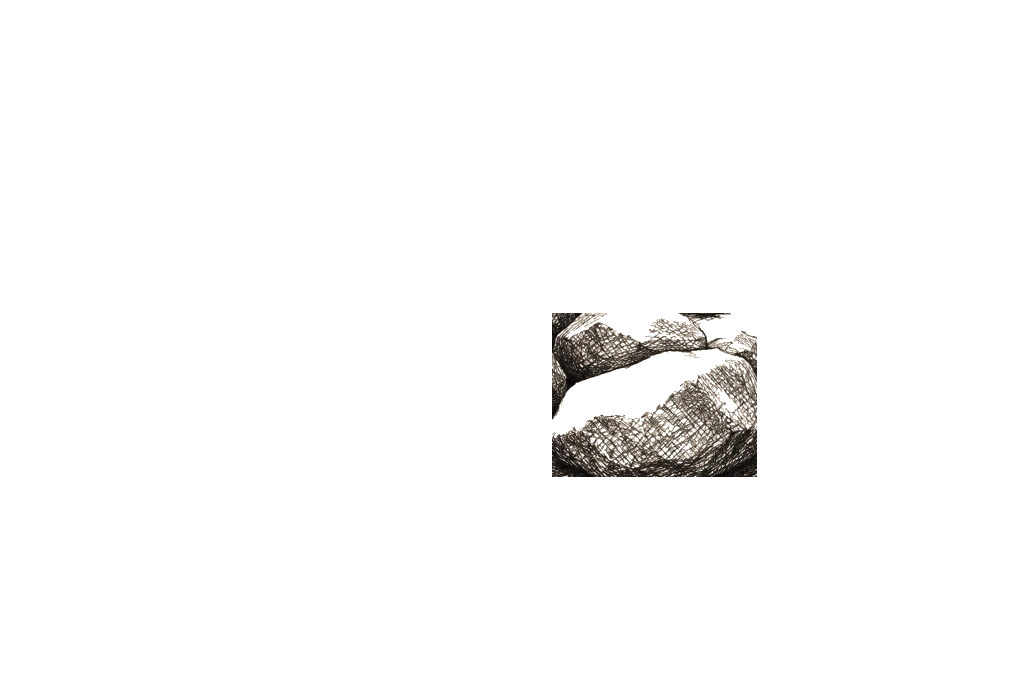
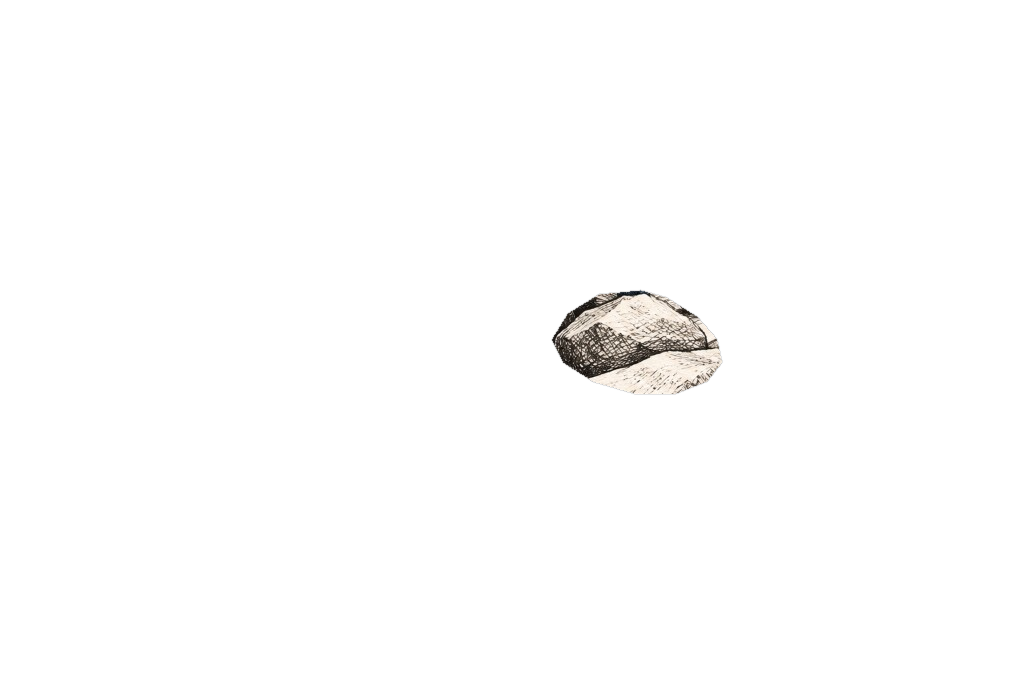
Tighten rock cutouts to stone silhouettes and simplify Nest CTA.
Trace each backpack rock as an art cutout like the tree hotspots, and leave the Nest tree alone on the right with the dashboard button under it.

Changed region(s): [[0.5312, 0.4003, 0.75, 0.7082]]

diff --git a/index.html b/index.html
@@ -61,7 +61,7 @@
   <link rel="preconnect" href="https://fonts.gstatic.com" crossorigin />
   <link href="https://fonts.googleapis.com/css2?family=Playfair+Display:ital,wght@0,400;0,700;1,400;1,700&family=DM+Sans:wght@300;400;500&family=DM+Mono:wght@300;400&family=Space+Mono:wght@400;700&display=swap" rel="stylesheet" />
   <link rel="stylesheet" href="/css/lilbird-tokens.css?v=20260917k" />
-  <link rel="stylesheet" href="/css/lilbird-home.css?v=20261103d" />
+  <link rel="stylesheet" href="/css/lilbird-home.css?v=20261103e" />
   <link rel="stylesheet" href="/css/lilbird-chat.css?v=20260917k" />
   <!-- Google Tag Manager -->
   <script src="/lilbird-gtm-id.js"></script>
@@ -297,16 +297,16 @@
     <div class="rocks-stage reveal reveal-delay-2" id="rocks-stage">
       <img class="rocks-art" src="/images/home/backpack-rocks.jpg" alt="A sketched blue backpack on the floor with rocks and Big Bird spilling out" width="1024" height="682" loading="lazy" decoding="async" />
       <div class="hotspot-glows" aria-hidden="true">
-        <img class="hotspot-glow" data-glow="rock-1" src="/images/home/backpack-rocks.jpg" data-hit="/images/home/hotspots/rock-1-hit.png" style="--hotspot-mask:url('/images/home/hotspots/rock-1-full.png')" alt="" width="1024" height="682" decoding="async" />
-        <img class="hotspot-glow" data-glow="rock-2" src="/images/home/backpack-rocks.jpg" data-hit="/images/home/hotspots/rock-2-hit.png" style="--hotspot-mask:url('/images/home/hotspots/rock-2-full.png')" alt="" width="1024" height="682" decoding="async" />
-        <img class="hotspot-glow" data-glow="rock-3" src="/images/home/backpack-rocks.jpg" data-hit="/images/home/hotspots/rock-3-hit.png" style="--hotspot-mask:url('/images/home/hotspots/rock-3-full.png')" alt="" width="1024" height="682" decoding="async" />
-        <img class="hotspot-glow" data-glow="rock-4" src="/images/home/backpack-rocks.jpg" data-hit="/images/home/hotspots/rock-4-hit.png" style="--hotspot-mask:url('/images/home/hotspots/rock-4-full.png')" alt="" width="1024" height="682" decoding="async" />
+        <img class="hotspot-glow" data-glow="rock-1" src="/images/home/backpack-rocks.jpg" data-hit="/images/home/hotspots/rock-1-hit.png?v=20261103e" style="--hotspot-mask:url('/images/home/hotspots/rock-1-full.png?v=20261103e')" alt="" width="1024" height="682" decoding="async" />
+        <img class="hotspot-glow" data-glow="rock-2" src="/images/home/backpack-rocks.jpg" data-hit="/images/home/hotspots/rock-2-hit.png?v=20261103e" style="--hotspot-mask:url('/images/home/hotspots/rock-2-full.png?v=20261103e')" alt="" width="1024" height="682" decoding="async" />
+        <img class="hotspot-glow" data-glow="rock-3" src="/images/home/backpack-rocks.jpg" data-hit="/images/home/hotspots/rock-3-hit.png?v=20261103e" style="--hotspot-mask:url('/images/home/hotspots/rock-3-full.png?v=20261103e')" alt="" width="1024" height="682" decoding="async" />
+        <img class="hotspot-glow" data-glow="rock-4" src="/images/home/backpack-rocks.jpg" data-hit="/images/home/hotspots/rock-4-hit.png?v=20261103e" style="--hotspot-mask:url('/images/home/hotspots/rock-4-full.png?v=20261103e')" alt="" width="1024" height="682" decoding="async" />
       </div>
       <div class="hotspot-targets">
-        <button type="button" class="art-hotspot" data-glow="rock-1" data-phrase="I know something needs to change. I just can't name what." data-href="/articles/how-do-you-know-youre-ready-for-life-coaching.html" aria-label="Rock: I know something needs to change" style="left:23.9%;top:66%;width:20%;height:21%"></button>
-        <button type="button" class="art-hotspot" data-glow="rock-2" data-phrase="I keep having the same conversations with myself and going nowhere." data-href="/articles/stuck-between-two-paths.html" aria-label="Rock: same conversations going nowhere" style="left:40.9%;top:61.9%;width:18.1%;height:20.8%"></button>
-        <button type="button" class="art-hotspot" data-glow="rock-3" data-phrase="On paper, my life looks fine. From the inside, it doesn't feel like mine." data-href="/articles/on-paper-my-life-looks-fine.html" aria-label="Rock: on paper my life looks fine" style="left:53.9%;top:45.9%;width:20%;height:24%"></button>
-        <button type="button" class="art-hotspot" data-glow="rock-4" data-phrase="I'm not in crisis. I'm just stuck. And I'm tired of it." data-href="/articles/feeling-stuck-in-your-late-twenties.html" aria-label="Rock: not in crisis, just stuck" style="left:72.9%;top:63.9%;width:22%;height:29%"></button>
+        <button type="button" class="art-hotspot" data-glow="rock-1" data-phrase="I know something needs to change. I just can't name what." data-href="/articles/how-do-you-know-youre-ready-for-life-coaching.html" aria-label="Rock: I know something needs to change" style="left:23.9%;top:62.5%;width:20%;height:24.2%"></button>
+        <button type="button" class="art-hotspot" data-glow="rock-2" data-phrase="I keep having the same conversations with myself and going nowhere." data-href="/articles/stuck-between-two-paths.html" aria-label="Rock: same conversations going nowhere" style="left:41.4%;top:64.1%;width:10.1%;height:11.3%"></button>
+        <button type="button" class="art-hotspot" data-glow="rock-3" data-phrase="On paper, my life looks fine. From the inside, it doesn't feel like mine." data-href="/articles/on-paper-my-life-looks-fine.html" aria-label="Rock: on paper my life looks fine" style="left:53.5%;top:41.9%;width:17.3%;height:16.3%"></button>
+        <button type="button" class="art-hotspot" data-glow="rock-4" data-phrase="I'm not in crisis. I'm just stuck. And I'm tired of it." data-href="/articles/feeling-stuck-in-your-late-twenties.html" aria-label="Rock: not in crisis, just stuck" style="left:73%;top:62.3%;width:21.8%;height:23.5%"></button>
       </div>
       <div class="rock-pop" id="rock-pop" hidden>
         <p class="rock-pop-kicker">One of the rocks</p>
@@ -356,11 +356,6 @@
             <span class="tree-tip-body" id="tree-tip-body"></span>
           </div>
         </div>
-        <ul class="nest-tree-legend">
-          <li><strong>Nest</strong> — the free home base</li>
-          <li><strong>Nest Plus</strong> — full tools, $7.99 / month</li>
-          <li><strong>Nest Premium</strong> — live group coaching, when open</li>
-        </ul>
         <p class="nest-tree-cta">
           <a class="btn-primary" href="/nest/">Your personal dashboard <span>→</span></a>
         </p>
@@ -577,7 +572,7 @@
 <script src="/first-flight-booking.js"></script>
 <script src="/lb-chat-safe.js"></script>
 <script src="/js/lilbird-theme.js?v=20261103a"></script>
-<script src="/js/lilbird-home.js?v=20261103d"></script>
+<script src="/js/lilbird-home.js?v=20261103e"></script>
 <script src="/js/lilbird-chat.js"></script>
 </body>
 </html>

diff --git a/css/lilbird-home.css b/css/lilbird-home.css
@@ -1903,8 +1903,8 @@ footer, .site-footer {
 }
 .rocks-stage .hotspot-glow {
   /* Same screen blend as the tree — brighten the stone, keep the drawing */
-  mix-blend-mode: soft-light;
-  filter: brightness(1.42) saturate(1.15) contrast(1.05);
+  mix-blend-mode: screen;
+  filter: brightness(1.45) saturate(1.25) contrast(1.05);
 }
 .rocks-stage,
 .nest-tree-stage {
@@ -2054,7 +2054,8 @@ footer, .site-footer {
 .nest-tree-stage .hotspot-targets {
   border-radius: inherit;
 }
-.nest-tree-cta { margin: 0.15rem 0 0; }
+.nest-tree-cta { margin: 0.35rem 0 0; }
+.nest-tree-frame .nest-tree-cta { text-align: center; }
 .tree-tip-pop {
   position: absolute;
   z-index: 5;
